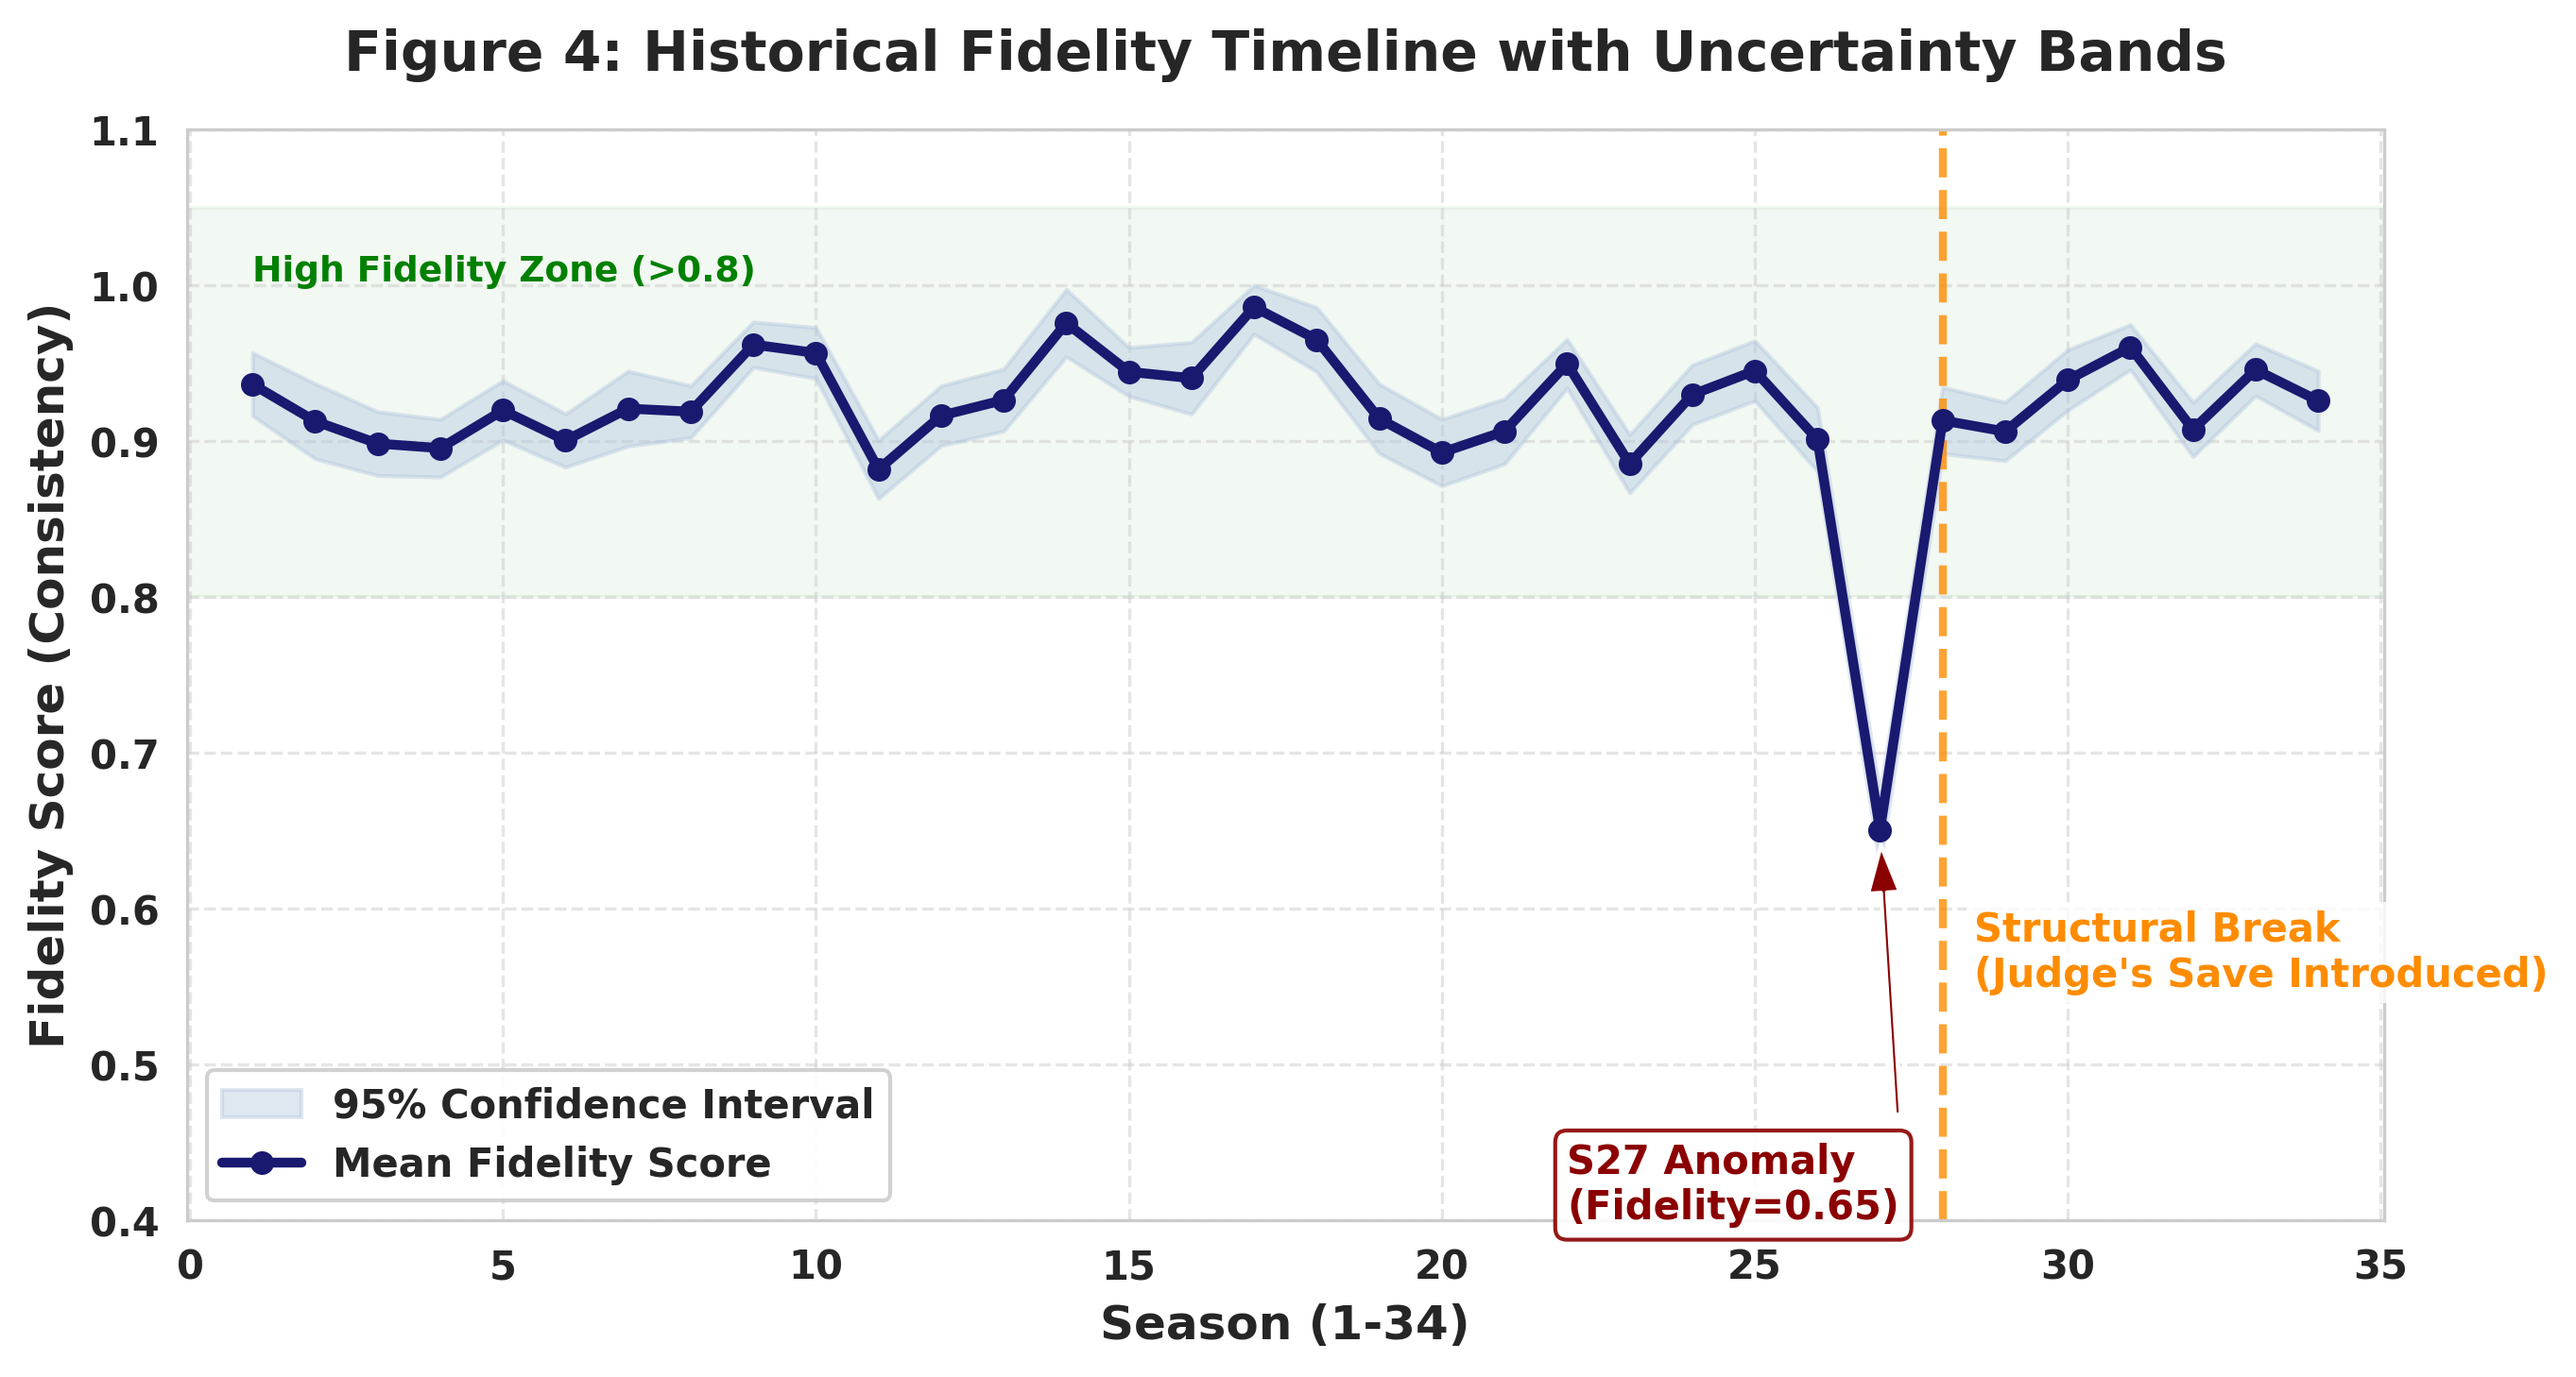
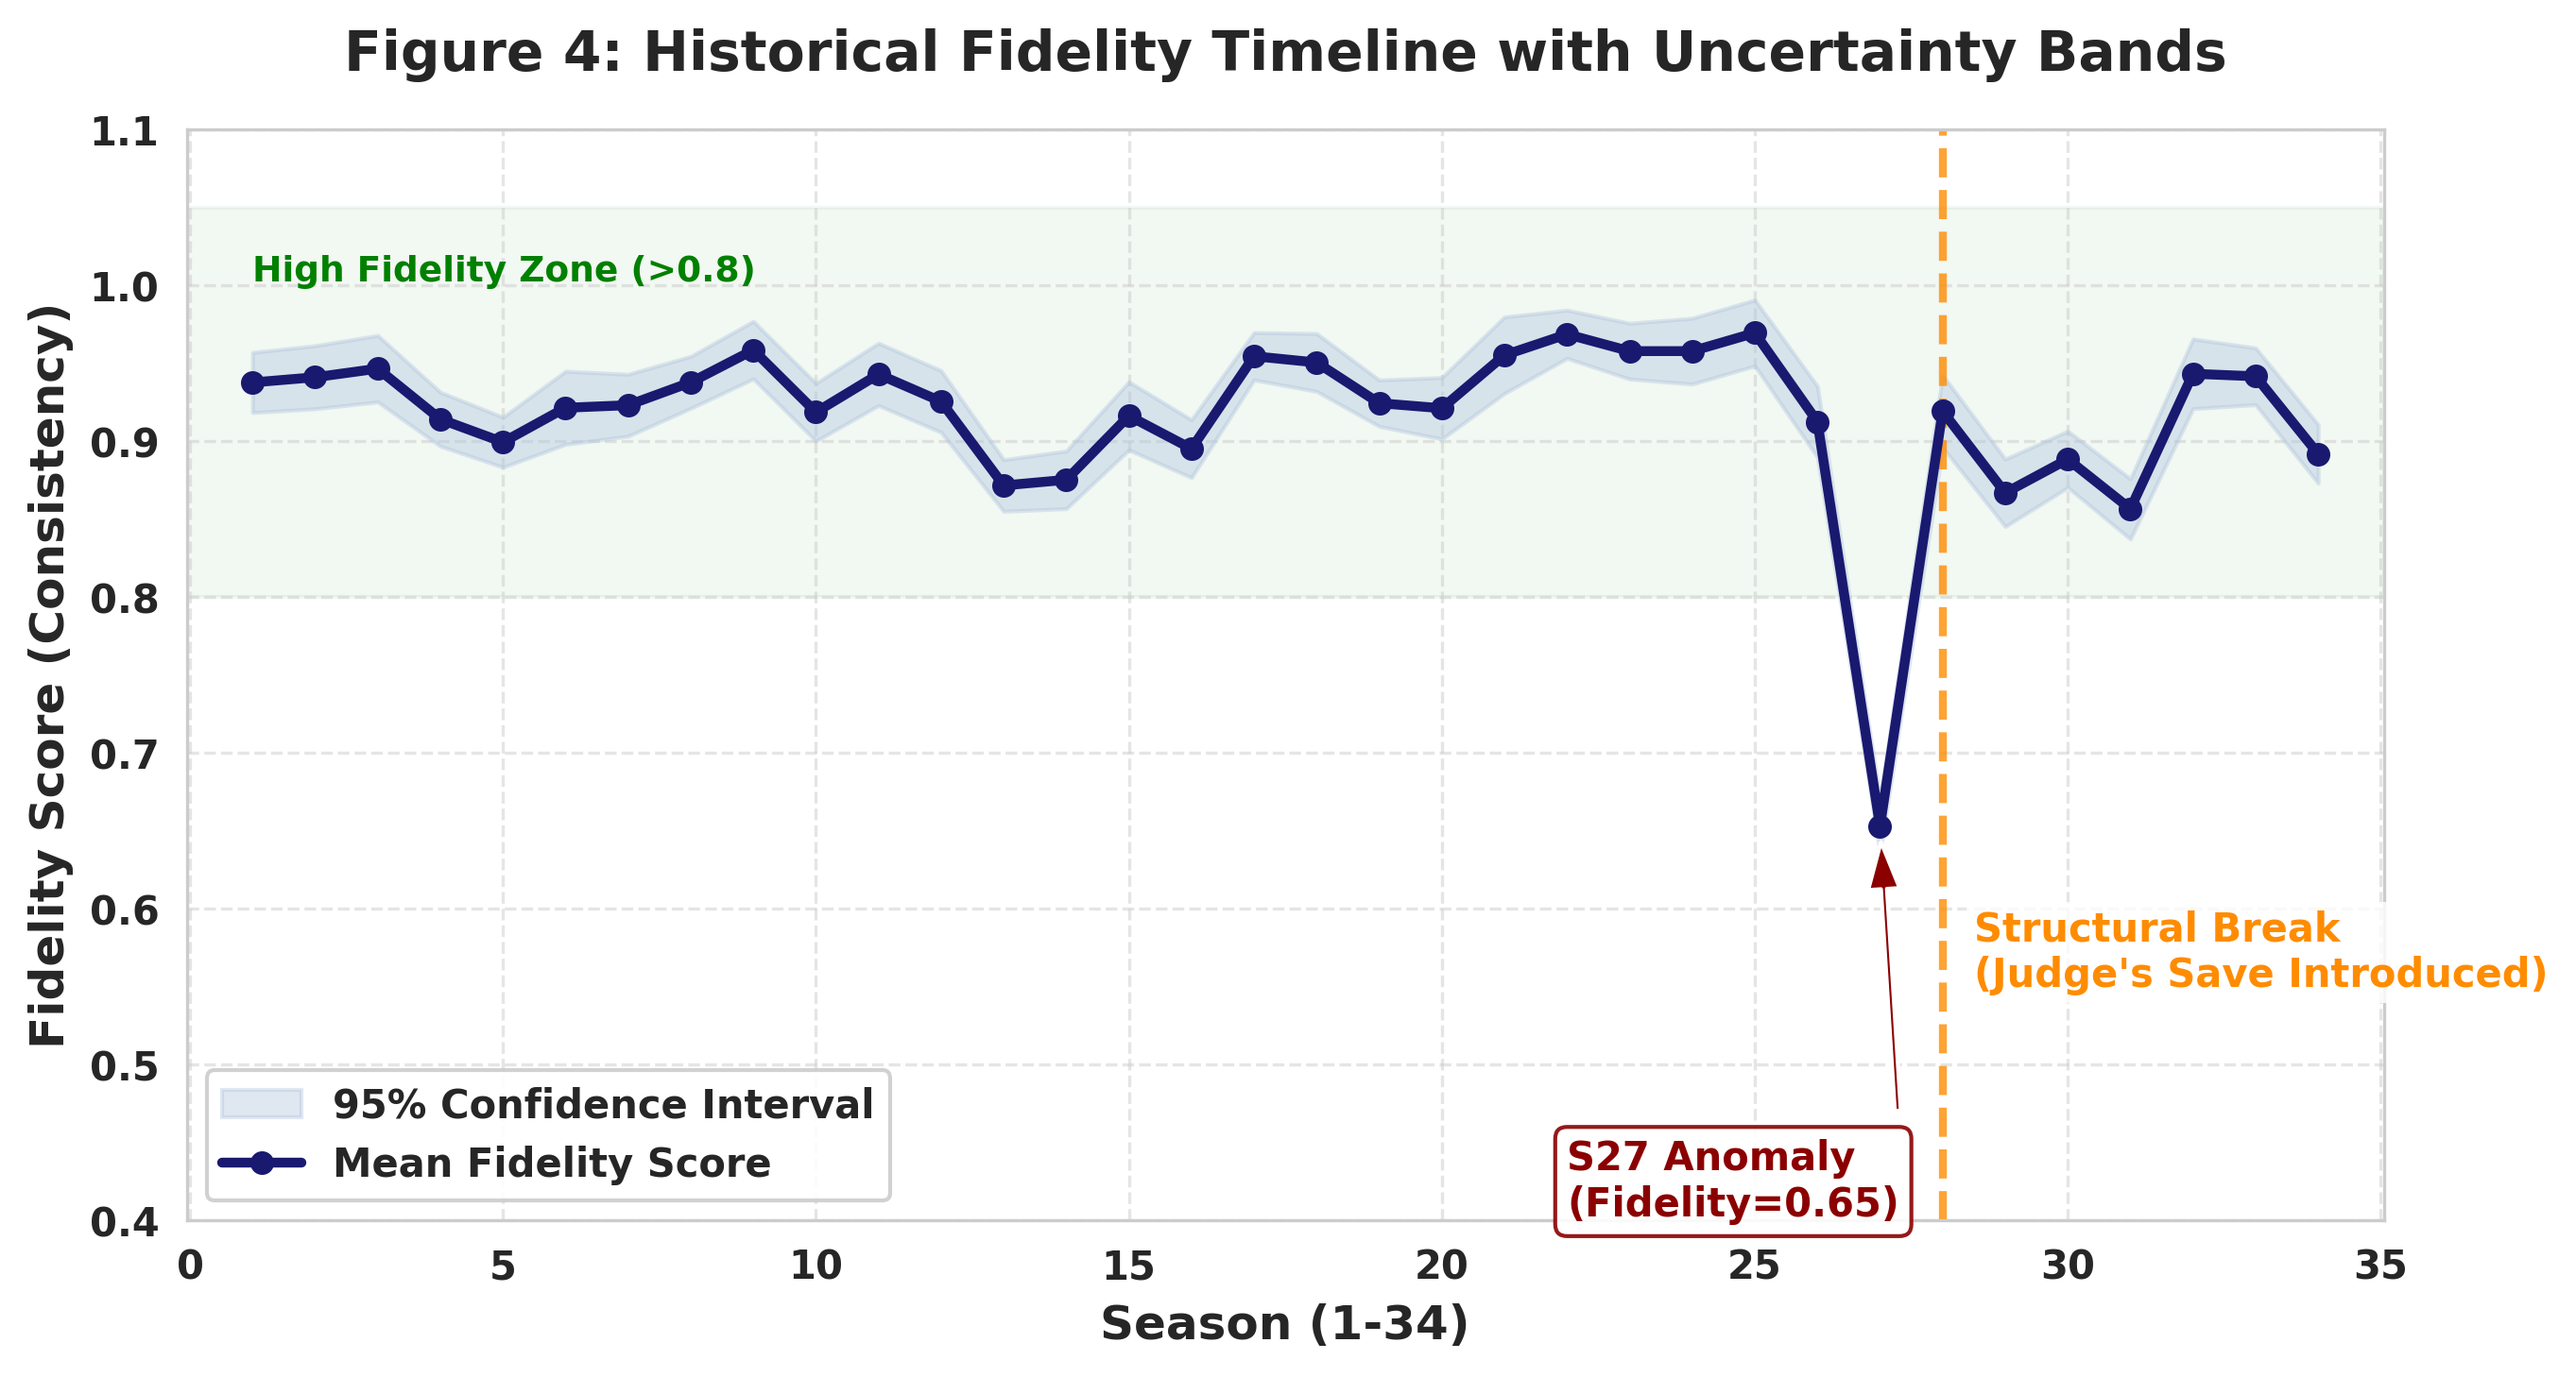
DONE

diff --git a/src/vis/inference_viz.py b/src/vis/inference_viz.py
@@ -180,7 +180,7 @@ class InferenceVisualizer:
 
         ax.grid(axis='x', linestyle='--', alpha=0.5)
         sns.despine(left=True, bottom=False)
-        ax.legend(loc='lower right', title='Final Status', frameon=True, framealpha=0.9)
+        ax.legend(loc='upper right', title='Final Status', frameon=True, framealpha=0.9)
 
         self.plotter.save_figure(f"task1_violin_S{season}W{week}.png")
 
